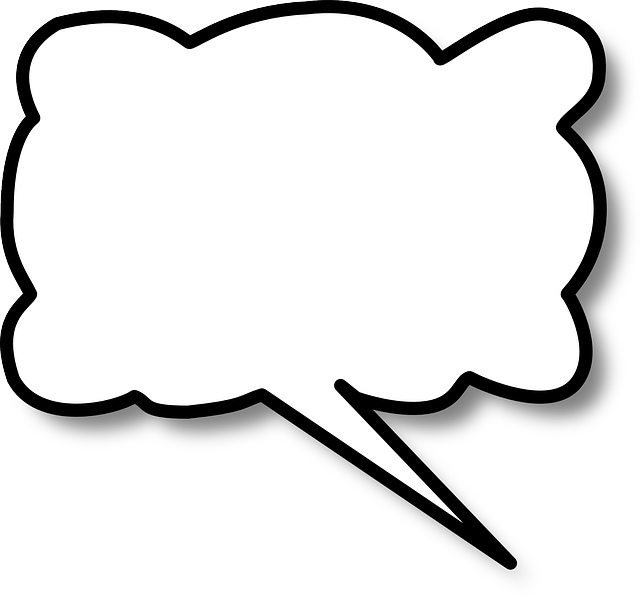
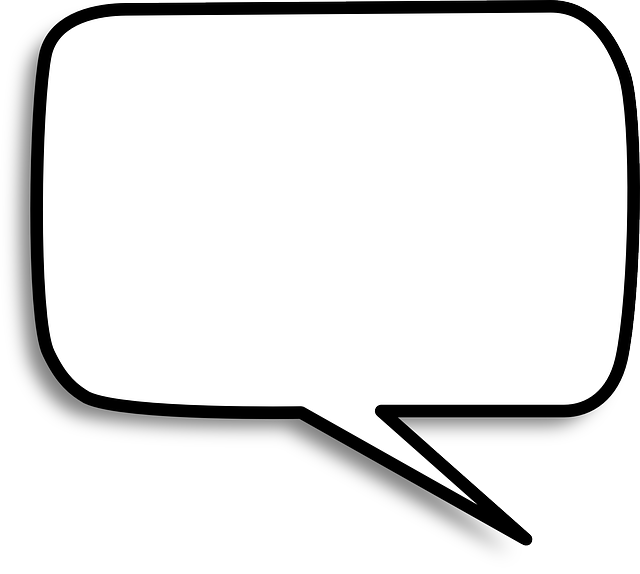
add caption and change textboxes slightly

Changed region(s): [[0.0, 0.0, 1.0, 0.9477]]

diff --git a/app/components/text_input/text_bubble.js b/app/components/text_input/text_bubble.js
@@ -9,18 +9,43 @@ export default class TextBubble extends React.Component {
     this.state = { text: '' };
   }
   render() {
+    let fSize;
+    let fWeight;
+    let containerStyle;
+    let txtStyle;
+    let lnHeight;
+    let img;
+    let charLimit;
+    if (this.props.img === require('../../images/caption.png')) {
+      fSize = 16;
+      fWeight = "bold";
+      containerStyle = styles.capContainer;
+      txtStyle = styles.txtCaptionInput;
+      lnHeight = 24;
+      charLimit = 30;
+      img = require('../../images/transparent.png');
+    } else {
+      fSize = 12;
+      fWeight = "bolder";
+      containerStyle = styles.container;
+      txtStyle = styles.txtBubbleInput;
+      lnHeight = 10;
+      img = this.props.img;
+      charLimit = 60;
+    }
     return (
-        <Image source={this.props.img} style={styles.container}>
+        <Image source={img} style={containerStyle}>
           <TextInput
             onSubmitEditing={(event) => Keyboard.dismiss()}
             adjustsFontSizeToFit={true}
             fontFamily='coming_soon'
-            fontSize={10}
-            lineHeight={11}
+            fontSize={fSize}
+            fontWeight={fWeight}
+            lineHeight={lnHeight}
             multiline={true}
             editable = {true}
-            maxLength = {50}
-            style={styles.txtInput}
+            maxLength = {charLimit}
+            style={txtStyle}
             onChangeText={(text) => this.setState({text})}
             value={this.state.text}
             underlineColorAndroid='rgba(0,0,0,0)'
@@ -38,33 +63,36 @@ var styles = StyleSheet.create({
     zIndex: 1,
     flex: 1,
     justifyContent: "center",
+    alignItems: "center",
     width: 110,
     height: 110,
     resizeMode: "stretch",
     backgroundColor:'transparent',
     justifyContent: "flex-start"
   },
-    bgImageWrapper: {
-        position: 'absolute',
-        top: 0, bottom: 0, left: 0, right: 0
-    },
-    txtInput: {
+  capContainer: {
+    padding: 2,
+    borderColor: "#e2e2e2",
+    borderWidth: 1,
+    zIndex: 1,
+    width: 310,
+    height: 50,
+    justifyContent: "center",
+    alignItems: "center",
+    backgroundColor:'transparent',
+  },
+    txtBubbleInput: {
       width: 90,
-      height: 90,
+      height: 85,
       textAlign: "center",
       position: "absolute",
-      bottom: 16,
-      left: 6,
+      bottom: 14,
+      left: 10,
     },
-    bgImage: {
-        flex: 1,
-        resizeMode: "contain",
-        height: 20,
-        width: 20,
-    },
-    welcome: {
-        fontSize: 20,
-        textAlign: 'center',
-        margin: 10
+    txtCaptionInput: {
+      zIndex: 4,
+      width: 270,
+      height: 50,
+      textAlign: "center"
     }
 });

diff --git a/app/components/slider/slider.js b/app/components/slider/slider.js
@@ -3,6 +3,7 @@ import Viewport from '../drag_and_drop/viewport';
 import { View, ScrollView, ListView, Image, StyleSheet, TouchableOpacity, Text } from 'react-native';
 import DrawingBox from '../drawing_box/drawing_box';
 import TextBubble from '../text_input/text_bubble';
+
 import SaveButton from '../save_button/save_button.js';
 
 export default class Slider extends Component {
@@ -42,8 +43,10 @@ export default class Slider extends Component {
       require(`../../images/speech-left.png`),
       require(`../../images/speech-right.png`),
       require(`../../images/thought-left.png`),
-      require(`../../images/thought-right.png`)
+      require(`../../images/thought-right.png`),
+      require('../../images/caption.png'),
     ];
+
     let imageViews = imageFiles.map((file, idx) => {
     return (
       <TouchableOpacity key={idx} onPress={()=>this.handleClick(idx)}>
